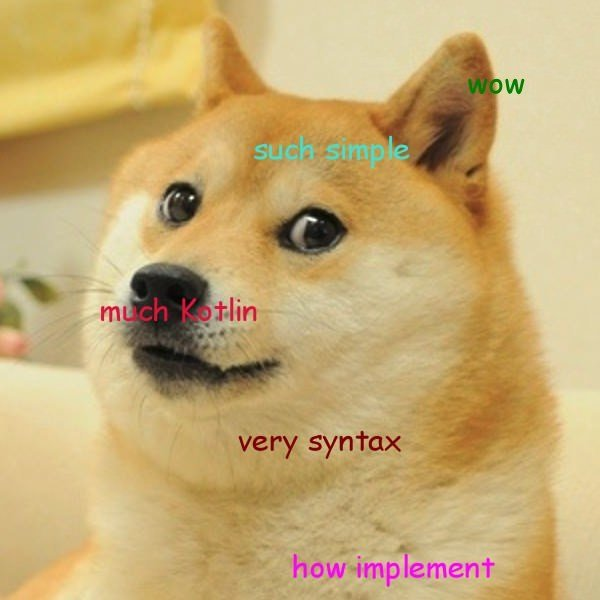
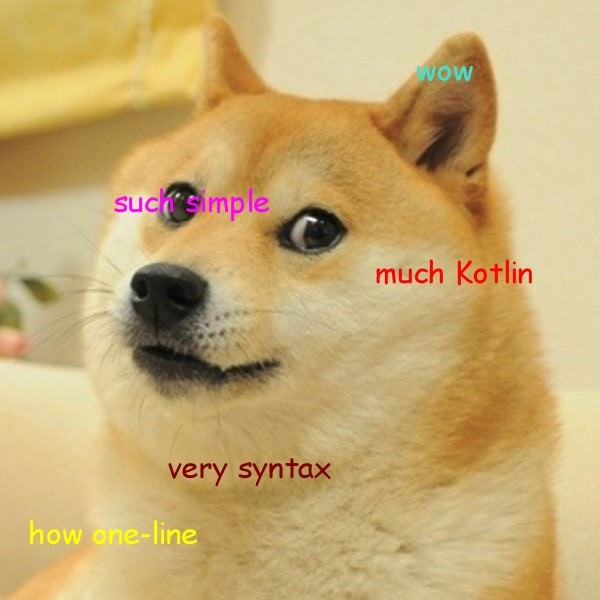
Joined Implement the Java interface with 100% interop.

diff --git a/index.html b/index.html
@@ -825,14 +825,14 @@ class ImprovedCheckout</code></pre>
 								</div>
 							</div>
 						</div>
-						<div class="sl-block" data-block-type="text" style="height: auto; min-width: 30px; min-height: 30px; width: 358px; left: 80px; top: 392px;">
+						<div class="sl-block" data-block-type="text" style="height: auto; min-width: 30px; min-height: 30px; width: 258px; left: 40px; top: 392px;">
 							<div class="sl-block-content fragment" style="z-index: 13; background: rgba(68, 68, 68, 0.5); padding: 20px;" data-fragment-index="1">
 								<p>one-line class</p>
 							</div>
 						</div>
-						<div class="sl-block" data-block-type="text" style="height: auto; min-width: 30px; min-height: 30px; width: 358px; left: 685px; top: 393px;">
+						<div class="sl-block" data-block-type="text" style="height: auto; min-width: 30px; min-height: 30px; width: 258px; left: 315px; top: 392px;">
 							<div class="sl-block-content fragment" style="z-index: 15; background: rgba(68, 68, 68, 0.5); padding: 20px;" data-fragment-index="3">
-								<p>";" is optional</p>
+								<p><span style="font-family: monospace;color: orange">;</span> is optional</p>
 							</div>
 						</div>
 						<div class="sl-block" data-block-type="text" style="height: auto; min-width: 30px; min-height: 30px; width: 68px; left: 826px; top: 157px;">
@@ -840,7 +840,7 @@ class ImprovedCheckout</code></pre>
 								<pre style="color:#a9b7c6; font-size:32px">❌</pre>
 							</div>
 						</div>
-						<div class="sl-block" data-block-type="text" style="height: auto; min-width: 30px; min-height: 30px; width: 424px; left: 856px; top: 641px;">
+						<div class="sl-block" data-block-type="text" style="height: auto; min-width: 30px; min-height: 30px; width: 424px; left: 0px; top: 641px;">
 							<div class="sl-block-content fragment" style="z-index: 17; background: rgba(68, 68, 68, 0.5); padding: 20px;" data-fragment-index="0">
 								<p>on dark background: Kotlin</p>
 							</div>
@@ -862,62 +862,18 @@ class ImprovedCheckout</code></pre>
 								<div class="sl-block-content fragment" style="background:rgb(39, 78, 19); border:1px solid #00ff00; z-index: 19;" data-fragment-index="3">&nbsp;</div>
 							</div>
 						</div>
-					</section>
-
-          <section id="implement-interface" data-notes="step-020" data-menu-title="Implement interface">
-						<div class="sl-block" data-block-type="text" style="width: 960px; left: 160px; top: 42px; height: auto;">
-							<div class="sl-block-content" style="z-index: 11;" dir="ui">
-								<h2>Implement the Java interface</h2>
-							</div>
-						</div>
-						<div class="sl-block" data-block-type="code" style="width: 1280px; height: 580px; left: 0; top: 140px;">
-							<div class="sl-block-style" style="z-index: 12;">
-								<div class="sl-block-content notranslate" data-highlight-theme="darcula" style="z-index: 12; font-size: 200%;">
-                                <pre class="kotlin"><code>package it.intre.sal.kotlin101
-
-class ImprovedCheckout : Checkout {
-
-    override fun pay(/*...args...*/): Int {
-        TODO("not implemented")
-    }
-
-}</code></pre>
-								</div>
-							</div>
-						</div>
-						<div class="sl-block" data-block-type="text" style="height: auto; width: 363px; left: 25px; top: 522px;">
-							<div class="sl-block-style" style="z-index: 13; transform: rotate(360deg);">
-								<div class="sl-block-content fragment" style="z-index: 13; background: rgba(68, 68, 68, 0.5); padding: 20px;" data-fragment-index="0">
-                                <pre><strong style="color:orange;">fun</strong> name(..): Type</pre>
-								</div>
-							</div>
-						</div>
-						<div class="sl-block" data-block-type="text" style="height: auto; width: 358px; left: 431px; top: 522px;">
-							<div class="sl-block-content fragment" style="z-index: 14; background: rgba(68, 68, 68, 0.5); padding: 20px;" data-fragment-index="1">
-								<p>nice TODO function</p>
-							</div>
-						</div>
-						<div class="sl-block" data-block-type="shape" style="min-width: 4px; min-height: 4px; width: 534px; height: 46px; left: 229px; top: 297px;">
-							<div class="sl-block-style" style="z-index: 15; opacity:0.51;mix-blend-mode:lighten;">
-								<div class="sl-block-content fragment current-visible" style="background:rgb(39, 78, 19); border:1px solid #00ff00; z-index: 15;" data-fragment-index="0">&nbsp;</div>
-							</div>
-						</div>
-						<div class="sl-block" data-block-type="shape" style="min-width: 4px; min-height: 4px; width: 428px; height: 46px; left: 140px; top: 337px;">
-							<div class="sl-block-style" style="z-index: 16; opacity:0.51;mix-blend-mode:lighten;">
-								<div class="sl-block-content fragment current-visible" style="background:rgb(39, 78, 19); border:1px solid #00ff00; z-index: 16;" data-fragment-index="1">&nbsp;</div>
-							</div>
-						</div>
-						<div class="sl-block" data-block-type="image" style="min-width: 4px; min-height: 4px; width: 480px; height: 480px; left: 800px; top: 192px;">
-							<div class="sl-block-content fragment" style="z-index: 17;" data-fragment-index="2">
+						<div class="sl-block" data-block-type="image" style="min-width: 4px; min-height: 4px; width: 480px; height: 480px; right: 20px; bottom: 20px;">
+							<div class="sl-block-content fragment" style="z-index: 17;" data-fragment-index="3">
 								<img data-natural-width="600" data-natural-height="600" data-lazy-loaded="" data-src="img/doge.jpg"/>
 							</div>
 						</div>
+
 					</section>
 
-          <section id="interoperability-100" data-notes="step-020">
-						<div class="sl-block" data-block-type="text" style="width: 960px; left: 160px; top: 42px; height: auto;">
-							<div class="sl-block-content" style="z-index: 10;" dir="ui">
-								<h2>Interoperability = 100%</h2>
+          <section id="implement-interface" data-notes="step-020" data-menu-title="Implement interface">
+						<div class="sl-block" data-block-type="text" style="width: 1280px; left: 0; top: 42px; height: auto;">
+							<div class="sl-block-content" style="z-index: 11;" dir="ui">
+								<h2>Implement the Java interface</h2>
 							</div>
 						</div>
 						<div class="sl-block" data-block-type="code" style="width: 1280px; height: 580px; left: 0; top: 140px;">
@@ -936,19 +892,10 @@ class ImprovedCheckout : Checkout {
 								</div>
 							</div>
 						</div>
-						<div class="sl-block" data-block-type="text" style="height: auto; width: 358px; left: 896px; top: 254px;">
-							<div class="sl-block-content fragment" style="z-index: 14; background: rgba(68, 68, 68, 0.5); padding: 20px;" data-fragment-index="1">
-								<p>mandatory override</p>
-							</div>
-						</div>
-						<div class="sl-block" data-block-type="text" style="height: auto; width: 558px; left: 696px; top: 354px;">
-							<div class="sl-block-content fragment" style="z-index: 14; background: rgba(68, 68, 68, 0.5); padding: 20px;" data-fragment-index="2">
-								<p>extensions from standard library</p>
-							</div>
-						</div>
+
 						<div class="sl-block" data-block-type="text" style="height: auto; width: 358px; left: 896px; top: 154px;">
 							<div class="sl-block-content fragment" style="z-index: 15; background: rgba(68, 68, 68, 0.5); padding: 20px;" data-fragment-index="0">
-												<pre>implements <span style="color:orange"><span style="font-size:medium; text-align:start"></span>🡆</span><span style="text-align:start"> "</span><span style="text-align:start">:"</span></pre>
+								<pre>implements <span style="color:orange"><span style="font-size:medium; text-align:start"></span>🡆</span><span style="text-align:start"> "</span><span style="text-align:start">:"</span></pre>
 							</div>
 						</div>
 						<div class="sl-block" data-block-type="shape" style="min-width: 4px; min-height: 4px; width: 207px; height: 46px; left: 412px; top: 146px;" >
@@ -956,24 +903,65 @@ class ImprovedCheckout : Checkout {
 								<div class="sl-block-content fragment current-visible" style="background:rgb(39, 78, 19); border:1px solid #00ff00; z-index: 16;" data-fragment-index="0">&nbsp;</div>
 							</div>
 						</div>
+
+						<div class="sl-block" data-block-type="text" style="height: auto; width: 358px; left: 896px; top: 254px;">
+							<div class="sl-block-style" style="z-index: 13; transform: rotate(360deg);">
+								<div class="sl-block-content fragment" style="z-index: 13; background: rgba(68, 68, 68, 0.5); padding: 20px;" data-fragment-index="1">
+									<pre><strong style="color:orange;">fun</strong> name(..): Type</pre>
+								</div>
+							</div>
+						</div>
+						<div class="sl-block" data-block-type="shape" style="min-width: 4px; min-height: 4px; width: 167px; height: 46px; left: 229px; top: 219px;">
+							<div class="sl-block-style" style="z-index: 15; opacity:0.51;mix-blend-mode:lighten;">
+								<div class="sl-block-content fragment current-visible" style="background:rgb(39, 78, 19); border:1px solid #00ff00; z-index: 15;" data-fragment-index="1">&nbsp;</div>
+							</div>
+						</div>
+						<div class="sl-block" data-block-type="shape" style="min-width: 4px; min-height: 4px; width: 124px; height: 46px; left: 71px; top: 340px;">
+							<div class="sl-block-style" style="z-index: 15; opacity:0.51;mix-blend-mode:lighten;">
+								<div class="sl-block-content fragment current-visible" style="background:rgb(39, 78, 19); border:1px solid #00ff00; z-index: 15;" data-fragment-index="1">&nbsp;</div>
+							</div>
+						</div>
+
+						<div class="sl-block" data-block-type="text" style="height: auto; width: 358px; left: 896px; top: 354px;">
+							<div class="sl-block-content fragment" style="z-index: 14; background: rgba(68, 68, 68, 0.5); padding: 20px;" data-fragment-index="2">
+								<p>mandatory override</p>
+							</div>
+						</div>
 						<div class="sl-block" data-block-type="shape" style="min-width: 4px; min-height: 4px; width: 227px; height: 46px; left: 71px; top: 216px;" >
 							<div class="sl-block-style" style="z-index: 17; opacity:0.51;mix-blend-mode:lighten;">
-								<div class="sl-block-content fragment current-visible" style="background:rgb(39, 78, 19); border:1px solid #00ff00; z-index: 17;" data-fragment-index="1">&nbsp;</div>
+								<div class="sl-block-content fragment current-visible" style="background:rgb(39, 78, 19); border:1px solid #00ff00; z-index: 17;" data-fragment-index="2">&nbsp;</div>
+							</div>
+						</div>
+
+						<div class="sl-block" data-block-type="text" style="height: auto; width: 358px; left: 896px; top: 454px;">
+							<div class="sl-block-content fragment" style="z-index: 14; background: rgba(68, 68, 68, 0.5); padding: 20px;" data-fragment-index="3">
+								<p>nice TODO function</p>
+							</div>
+						</div>
+						<div class="sl-block" data-block-type="shape" style="min-width: 4px; min-height: 4px; width: 428px; height: 46px; left: 140px; top: 380px;">
+							<div class="sl-block-style" style="z-index: 16; opacity:0.51;mix-blend-mode:lighten;">
+								<div class="sl-block-content fragment current-visible" style="background:rgb(39, 78, 19); border:1px solid #00ff00; z-index: 16;" data-fragment-index="3">&nbsp;</div>
+							</div>
+						</div>
+
+						<div class="sl-block" data-block-type="text" style="height: auto; width: 358px; left: 896px; top: 554px;">
+							<div class="sl-block-content fragment" style="z-index: 14; background: rgba(68, 68, 68, 0.5); padding: 20px;" data-fragment-index="4">
+								<p>extensions from standard library</p>
 							</div>
 						</div>
 						<div class="sl-block" data-block-type="shape" style="min-width: 4px; min-height: 4px; width: 80px; height: 78px; left: 270px; top: 262px;" >
 							<div class="sl-block-style" style="z-index: 18; opacity:0.51;mix-blend-mode:lighten;">
-								<div class="sl-block-content fragment" style="background:rgb(39, 78, 19); border:1px solid #00ff00; z-index: 18;" data-fragment-index="2">&nbsp;</div>
+								<div class="sl-block-content fragment" style="background:rgb(39, 78, 19); border:1px solid #00ff00; z-index: 18;" data-fragment-index="4">&nbsp;</div>
 							</div>
 						</div>
 						<div class="sl-block" data-block-type="shape" style="min-width: 4px; min-height: 4px; width: 170px; height: 39px; left: 508px; top: 301px;" >
 							<div class="sl-block-style" style="z-index: 19; opacity:0.51;mix-blend-mode:lighten;">
-								<div class="sl-block-content fragment" style="background:rgb(39, 78, 19); border:1px solid #00ff00; z-index: 19;" data-fragment-index="2">&nbsp;</div>
+								<div class="sl-block-content fragment" style="background:rgb(39, 78, 19); border:1px solid #00ff00; z-index: 19;" data-fragment-index="4">&nbsp;</div>
 							</div>
 						</div>
-						<div class="sl-block" data-block-type="code" style="width: 1143px; height: 246px; left: 107px; top: 453px;">
+						<div class="sl-block" data-block-type="code" style=" width: 804px; height: 201px; left: 59px; bottom: 10px;">
 							<div class="sl-block-style" style="z-index: 20;">
-								<div class="sl-block-content notranslate fragment" data-highlight-theme="ir-black" style="z-index: 20; font-size: 190%; border: 1px solid;" data-fragment-index="2">
+								<div class="sl-block-content notranslate fragment" data-highlight-theme="ir-black" style="z-index: 20; font-size: 140%; border: 1px solid;" data-fragment-index="4">
                                 <pre class="kotlin"><code>package kotlin.collections
 
 public interface Collection&lt;out E&gt; : Iterable&lt;E&gt; { /* ... */ }
@@ -986,11 +974,11 @@ public interface Map&lt;K, out V&gt; { /* ... */ }
 						</div>
 					</section>
 
-          <section id="also-on-java-side" data-notes="step-030
+          <section id="100-interoperability" data-notes="step-030
 - no checked exceptions in Kotlin!">
-						<div class="sl-block" data-block-type="text" style="width: 960px; left: 160px; top: 42px; height: auto;">
+						<div class="sl-block" data-block-type="text" style="width: 1280px; left: 0; top: 42px; height: auto;">
 							<div class="sl-block-content" style="z-index: 10;" dir="ui">
-								<h2>...also on Java side</h2>
+								<h2>100% interoperability also on Java side</h2>
 							</div>
 						</div>
 						<div class="sl-block" data-block-type="code" style="width: 1280px; height: 580px; left: 0; top: 140px;">
@@ -1231,7 +1219,7 @@ public interface Map&lt;K, out V&gt; { /* ... */ }
 						</div>
 						<div class="sl-block" data-block-type="text" style="height: auto; width: 346px; left: 391px; top: 166px;">
 							<div class="sl-block-content fragment" style="z-index: 15; background: rgba(68, 68, 68, 0.5); padding: 20px;" data-fragment-index="1">
-								<p style="text-align:center">more type inference</p>
+								<p style="text-align:center">type inference</p>
 							</div>
 						</div>
 						<div class="sl-block" data-block-type="text" style="height: auto; width: 346px; left: 391px; top: 293px;">
